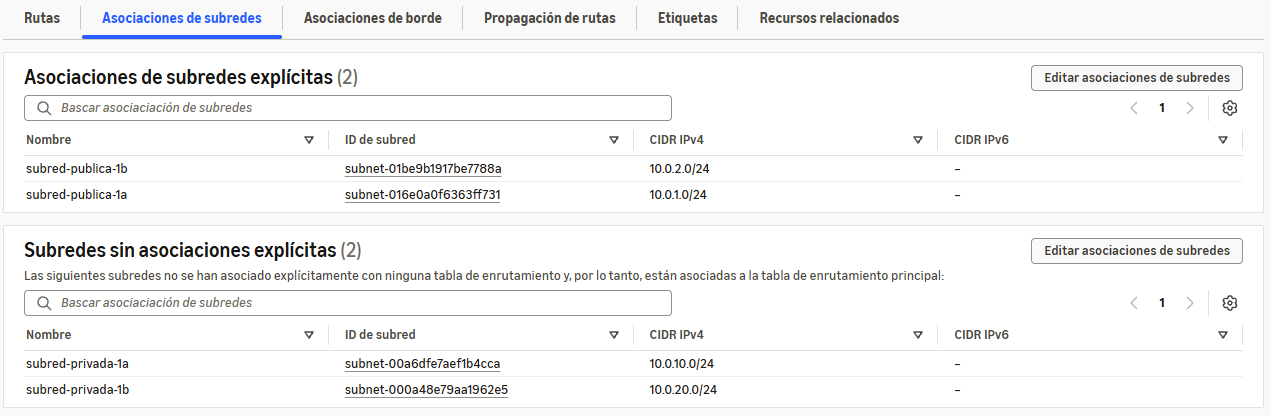
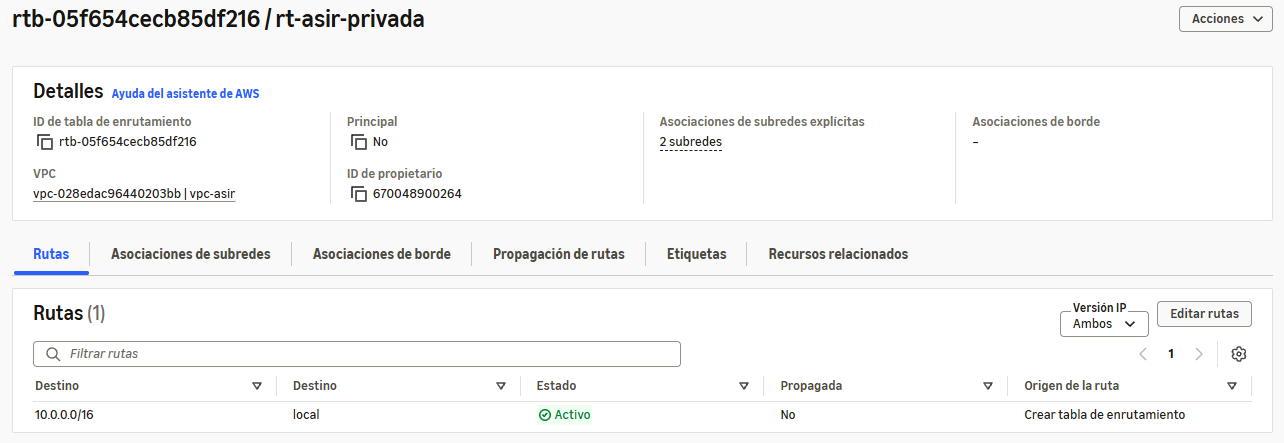
pr0401

diff --git a/ut04/pr0401/pr0401.md b/ut04/pr0401/pr0401.md
@@ -57,19 +57,17 @@ Volvemos a clicar en `Acciones > Editar asociaciones de subredes` y marcamos las
 
 ![publica](imagenes/4.png)
 
-![publica](imagenes/5.png)
-
 Crearemos ahora una tabla de rutas privadas. Clicamos en `Crear tabla de enrutamiento` y pondremos la siguiente configuración:
 - **Nombre:** rt-asir-privada
 - **VPC:** seleccionamos la que hemos creado
 
 Una vez creada, comprobaremos de nuevo que la IP a la que está apuntando es la `10.0.0.0/16` con destino a `local`, no añadiremoso otra a mayores y solamente agregamos las subredes privadas.
 
-![privada](imagenes/6.png)
+![privada](imagenes/5.png)
 
+Para realizar la comprobación, iremos hacia `Sus VPC`, clicamos en la que hemos creado y en los detalles de abajo, clicaremos en `Mapa de recursos` y veremos de forma gráfica lo que hemos ido haciendo.
 
-
-
+![mapa](imagenes/6.png)
 
 
 [Volver a la página anterior](../index.md)
